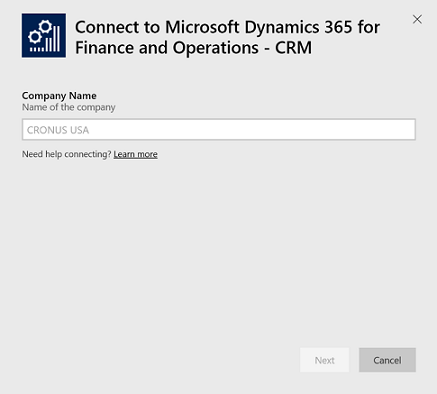
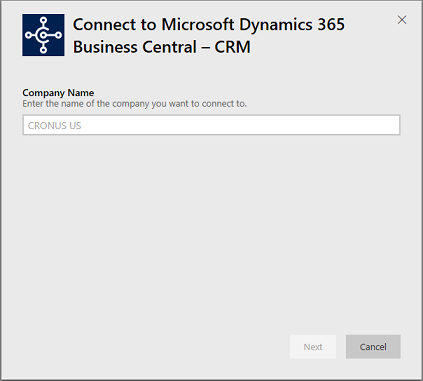
merge admin powerbi and content packs topics

diff --git a/business-central/admin-powerbi.md b/business-central/admin-powerbi.md
@@ -16,6 +16,8 @@ ms.author: edupont
 # Enabling Your Business Data for Power BI
 Getting insights into your [!INCLUDE[d365fin](includes/d365fin_md.md)] data is easy with Power BI and the [!INCLUDE[d365fin](includes/d365fin_md.md)] content packs. Power BI retrieves your data and then builds an out-of-the-box dashboard and reports based on that data.  
 
+You must have a valid account with Dynamics 365 and with Power BI. Also, you must download [Power BI Desktop](https://powerbi.microsoft.com/en-us/desktop/) if you wish to create your own Power BI reports. Power BI content packs require permissions to the tables where data is retrieved from.
+
 Microsoft has published the following content packs:
 
 | App | Description |
@@ -37,84 +39,128 @@ The content packs are preconfigured to work with data from the demonstration com
 > [!NOTE]  
 >   You can also build your own reports and dashboards in Power BI based on your [!INCLUDE[d365fin](includes/d365fin_md.md)] data. For more information, see [Connecting Your Business Data to Power BI](across-how-use-financials-data-source-powerbi.md).  
 
-## Accessing [!INCLUDE[d365fin](includes/d365fin_md.md)] in Power BI
-To see your [!INCLUDE[d365fin](includes/d365fin_md.md)] data in Power BI, you must have the following:  
+## How to Connect
+1. Select **Get Data** at the bottom of the left navigation pane.  
+![Navigating to Get Data](./media/across-how-to-connect-powerbi-d365-content-packs/powerbi-get-data.png)
 
-* Access to [!INCLUDE[d365fin](includes/d365fin_md.md)]. For more information, see [Business Central](http://go.microsoft.com/fwlink/?LinkID=759714).  
-* Access to Power BI. For more information, see [Power BI](https://powerbi.microsoft.com).
+You may also get starting from within Dynamics 365 Business Edition. From the role center, navigate to **Report Selection** in the Power BI Role Center part. Select either **Service** or **My Organization** from the ribbon. When either of these actions are selected, you will be taken to either the Organization gallery in Power BI or to the services library in Power BI, which will also be filtered to only display content packs related to [!INCLUDE[d365fin_long_md](includes/d365fin_long_md.md)].
 
-On the Power BI site, you can find additional information about [connecting to services with content packs for Power BI](http://go.microsoft.com/fwlink/?LinkID=760850).  
+2. In the **Services** box, select **Get**. This will open a window with the **AppSource** and **Apps for Power BI apps**.  
+![Choose content packs from online services](./media/across-how-to-connect-powerbi-d365-content-packs/powerbi-online-services-get.png)
+3. Select **Apps** from the **Apps for Power BI apps** tab, choose the **Microsoft Dynamics 365 Business Central** content pack that you want to use, and then select **Get it now**.  
+![Select Dynamics 365 Business Central and select Get it now](./media/across-how-to-connect-powerbi-d365-content-packs/powerbi-dynamics365-for-financials-get-it-now.png)
+4. When prompted, enter the name of *your company* in [!INCLUDE[d365fin_md](includes/d365fin_long_md.md)]. This is not the display name. The company name can be found on the 'Companies' page within your [!INCLUDE[d365fin_md](includes/d365fin_long_md.md)] kvinstance.  
+![Select Dynamics 365 Business Central and select Get it now](./media/across-how-to-connect-powerbi-d365-content-packs/powerbi-connect-to-d365-finance-and-operations-crm.png)
+5. Once connected, a dashboard, report and dataset will automatically be loaded into your Power BI workspace. When completed, the tiles will update with data from your [!INCLUDE[d365fin_md](includes/d365fin_long_md.md)] company.
+![Select Dynamics 365 Business Central  and select Get it now](./media/across-how-to-connect-powerbi-d365-content-packs/powerbi-workspace-dashboard-report-dataset.png)
 
-To access your [!INCLUDE[d365fin](includes/d365fin_md.md)] data in Power BI, on the connection page, you must specify the following information:
+## What Now?
 
-| Field | Description |
-| --- | --- |
-| **OData Feed URL** |The OData URL so Power BI can access data from your company, such as https://mybusiness.financials.dynamics.com:7048/MS/ODataV4/Company('My%2Business'). |
-| **Authentication method** |Choose **Basic**. |
-| **User name** |Your name as it displays for your account in [!INCLUDE[d365fin](includes/d365fin_md.md)], such as *John Smith*. |
-| **Password** |This is the web service access key for your user account in [!INCLUDE[d365fin](includes/d365fin_md.md)]. |
+- Try [asking a question in the Q&A box](https://docs.microsoft.com/en-us/power-bi/service-q-and-a) at the top of the dashboard.
+- [Change the tiles](https://docs.microsoft.com/en-us/power-bi/service-dashboard-edit-tile) in the dashboard.  
+- [Select a tile](https://docs.microsoft.com/en-us/power-bi/service-dashboard-tiles) to open the underlying report.  
+- While your dataset will be scheduled to refreshed daily, you can change the refresh schedule or try refreshing it on demand using **Refresh Now**.
 
-This means that you must get 2 pieces of information from [!INCLUDE[d365fin](includes/d365fin_md.md)]: The *OData URL* and the *web service access key* for your user account.  
+## System Requirements
+To import your [!INCLUDE[d365fin_long_md](includes/d365fin_long_md.md)] data into Power BI, you need to have permissions to the web services used to retrieve data. The web services required for each content pack include:
 
-### Getting the URL
-When you add [!INCLUDE[d365fin](includes/d365fin_md.md)] to Power BI, you must specify a URL so Power BI can access data from your company. On the connection page, the URL is referred to as the **OData Feed URL**, and it must have the following format:
+## Role Center Reports
 
-         https://mybusiness.financials.dynamics.com:7048/MS/ODataV4/Company('CRONUS%20US')  
-In this example, *mybusiness* is the name of your [!INCLUDE[d365fin](includes/d365fin_md.md)] service, and *CRONUS US* is the name of the demonstration company with *%20* representing the space in the name.   
-To get the URL, in [!INCLUDE[d365fin](includes/d365fin_md.md)], search for and open the **Web Services** window. This window lists the web services that are currently available, and you can copy the link from the **OData URL** field for one of the default OData web services.  
+**Microsoft Dynamics 365 Business Central – CRM**
+- Sales Opportunities
+- Excel Template View Company
+- Power BI Report Labels
 
-### Getting the user name and the web service access key
-In order to use data from [!INCLUDE[d365fin](includes/d365fin_md.md)] in Power BI, in the **Connect to Financials** window, you must specify a user name and a password. The user name is your name as it displays for your account in [!INCLUDE[d365fin](includes/d365fin_md.md)] so that Power BI can log in to [!INCLUDE[d365fin](includes/d365fin_md.md)]. The password is the web service access key that is set up for your user account in [!INCLUDE[d365fin](includes/d365fin_md.md)].  
+**Microsoft Dynamics 365 Business Central – Finance**
+- PowerBIFinance
+- Excel Template View Company
+- Power BI Report Labels
 
-To find this information, in [!INCLUDE[d365fin](includes/d365fin_md.md)], search for the **Users** window, and then open the card for your user account. On the **General** FastTab, copy the content of the **User Name** field, and on the **Web Service Access** FastTab, copy the contents of the **Web Service Access Key** field. If the **Web Service Access Key** field is blank, in the ribbon, choose **Change Web Service Access Key**, choose the **Key Never Expires** field, and then choose the OK button. You can then copy the key.  
+**Microsoft Dynamics 365 Business Central – Jobs**
+- Job List
+- Job Planning Lines
+- Job Task Lines
+- Power BI Report Labels
+- Excel Template View Company
 
-## Getting Data from [!INCLUDE[d365fin](includes/d365fin_md.md)]
-The [!INCLUDE[d365fin](includes/d365fin_md.md)] dashboard shows the most typical reports that you will want to use to track your business. The data is extracted from your [!INCLUDE[d365fin](includes/d365fin_md.md)] company using web services to read live data. In [!INCLUDE[d365fin](includes/d365fin_md.md)], the **Web Services** window lists the web services that have been set up for you.
+**Microsoft Dynamics 365 Business Central - Sales**
+- Sales Dashboard
+- Excel Template View Company
+- Power BI Report Labels
 
-> [!NOTE]  
->   If you change the name of any of these web services, the data will not show up in Power BI.  
-If you want to add use other data in Power BI, you must find the tables in [!INCLUDE[d365fin](includes/d365fin_md.md)], expose them as web services, and then add them to the content pack. This is an advanced scenario, and we recommend that you start with the data that is already available in Power BI.  
+## List Page Reports 
+
+**Microsoft Dynamics 365 Business Central – Customers List**
+- Item Sales by Customer
+- Power BI Item Purchase List
+- Power BI Item Sales List
+- Sales Dashboard
+- Power BI Customer List
+- ExcelTemplateViewCompany
+- Power BI Report Labels 
+
+**Microsoft Dynamics 365 Business Central - General Ledger Entries List**
+- Power BI GL Amount List
+- Power BI GL Budgeted Amount
+- ExcelTemplateViewCompany
+- Power BI Report Labels
+
+**Microsoft Dynamics 365 Business Central – Items List**
+- Item Sales by Customer
+- Power BI Item Purchase List
+- Power BI Item Sales List
+- Sales Dashboard
+- ExcelTemplateViewCompany
+- Power BI Report Labels
+
+**Microsoft Dynamics 365 Business Central – Jobs List**
+- Power BI Jobs List
+- ExcelTemplateViewCompany
+- Power BI Report Labels
+
+**Microsoft Dynamics 365 Business Central – Purchase Invoices List**
+- Power BI Purchase List
+- ExcelTemplateViewCompany
+- Power BI Report Labels
+
+**Microsoft Dynamics 365 Business Central – Sales Orders List**
+- Power BI Sales List
+- ExcelTemplateViewCompany
+- Power BI Report Labels
+
+
+**Microsoft Dynamics 365 Business Central – Vendors List**
+- Power BI Item Purchase List
+- Power BI Item Sales List
+- Power BI Vendor List
+- ExcelTemplateViewCompany
+- Power BI Report Labels
+
+## Web Services
+An easy way to find the web services is to search for web services in [!INCLUDE[d365fin_long_md](includes/d365fin_long_md.md)]. In the list make sure the Publish box is marked for the web services listed above.
 
 ## Troubleshooting
-The Power BI dashboard relies on the published web services that are listed above, and it will show data from the demonstration company or your own company if you import data from your current finance solution. However, if something goes wrong, this section provides a workaround for the most typical issues.  
+The Power BI dashboard relies on the published web services that are listed above, and it will show data from the demonstration company or your own company if you import data from your current finance solution. However, if something goes wrong, this section provides a workaround for the most typical issues.
 
-**"Parameter validation failed, please make sure all parameters are valid"**  
-If you see this error after you enter your [!INCLUDE[d365fin](includes/d365fin_md.md)] URL, make sure the following requirements are satisfied:  
+### Incorrect Company Name  
+A common mistake is to enter the company display name instead of the company name. To find the company name search for **Companies**. Then use the **Name** field when entering your company name.
 
-* The URL follows exactly this pattern:
+### Incorrect User Name and Password  
+The user name and password used to connect will be the same as what is used to connect to your Microsoft Office 365 account.  
 
-    https://mybusiness.financials.dynamics.com:7048/MS/ODataV4/Company('CRONUS%20US')  
-* Delete any text after the company name in parenthesis  
-* Make sure there are no trailing forward slash at the end of the URL.  
-* Make sure that it is a secure connection as indicated by the URL starting with *https*.  
+The content packs also require that you have a Microsoft [!INCLUDE[d365fin_long_md](includes/d365fin_long_md.md)] account. Once you enter your credentials, we will auto discover any Microsoft [!INCLUDE[d365fin_long_md](includes/d365fin_long_md.md)] tenants you have access to. If you do not have a licensed or trial Microsoft [!INCLUDE[d365fin_long_md](includes/d365fin_long_md.md)] account, you will receive an error message.
 
-**"Login failed"**  
-If you get a "login failed" error when you log in to the dashboard, using your [!INCLUDE[d365fin](includes/d365fin_md.md)] credentials, then this can be caused by one of the following issues:
-
-* The account you are using does not have permissions to read the [!INCLUDE[d365fin](includes/d365fin_md.md)] data from your account.
-
-    Verify your user account in [!INCLUDE[d365fin](includes/d365fin_md.md)], and make sure that you have used the right web service access key as the password, and then try again.  
-* The [!INCLUDE[d365fin](includes/d365fin_md.md)] instance that you are trying to connect to does not have a valid SSL certificate. In this case you'll see a more detailed error message ("unable to establish trusted SSL relationship").
-
-    > [!NOTE]  
-    >   Self-signed certificates are not supported.  
-
-**"Oops"**  
-If you see an "Oops" error dialog after you pass the authentication dialog, this is most frequently caused by a problem connecting to the data for the content pack.
-
-* Verify that the URL follows the pattern that was specified earlier:
-
-    `https://mybusiness.financials.dynamics.com:7048/MS/ODataV4/Company('CRONUS%20US')`  
-* A common mistake is to specify the full URL for a specific web service:
-
-    `https://mybusiness.financials.dynamics.com:7048/MS/ODataV4/Company('CRONUS%20US')/powerbifinance`
-* Or you might have forgotten to specify the company name:
-
-    `https://mybusiness.financials.dynamics.com:7048/MS/ODataV4/`
+### The Key Didn't Match Any Rows in the Table
+If you enter a non-valid company name during the connection process, you may get the error message "The key didn't match any rows in the table". Provide the correct company name and try connecting again.
 
 ## See Also
+[Get started with Power BI](https://docs.microsoft.com/en-us/power-bi/service-get-started)  
+[Power BI - Basic Concepts](https://docs.microsoft.com/en-us/power-bi/service-basic-concepts)  
 [Business Intelligence](bi.md)  
 [Getting Started](product-get-started.md)  
+[Importing Business Data from Other Finance Systems](upload-data.md)  
+[Setting Up [!INCLUDE[d365fin](includes/d365fin_md.md)]](setup.md)  
+[Finance](finance.md)  
 [Migrate Business Data from Other Finance Systems](upload-data.md)  
 [Using [!INCLUDE[d365fin](includes/d365fin_md.md)] as a Power BI Data Source](across-how-use-financials-data-source-powerbi.md)  
 [Using [!INCLUDE[d365fin](includes/d365fin_md.md)] as a PowerApps Data Source](across-how-use-financials-data-source-powerapps.md)  
